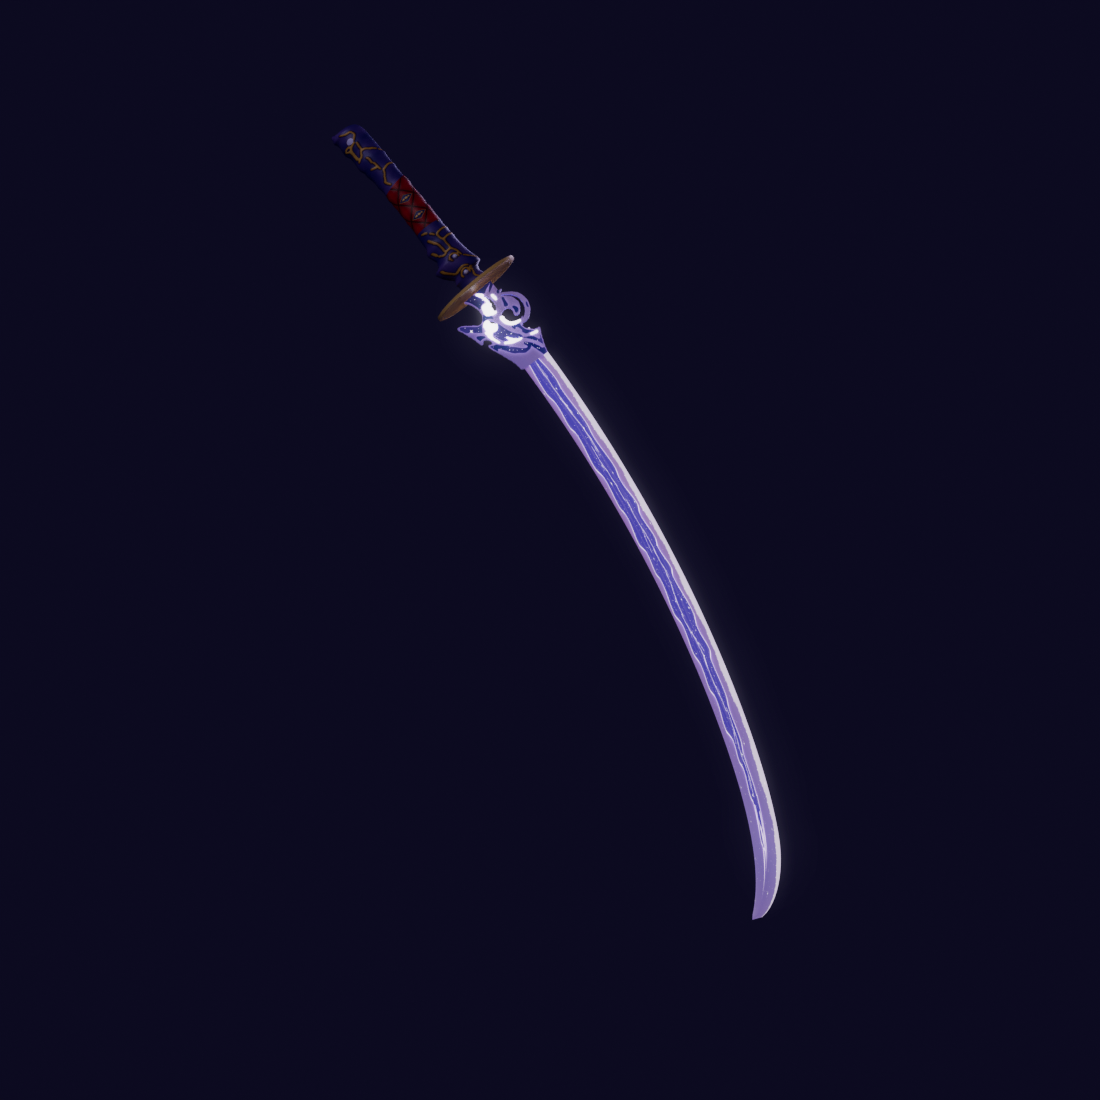
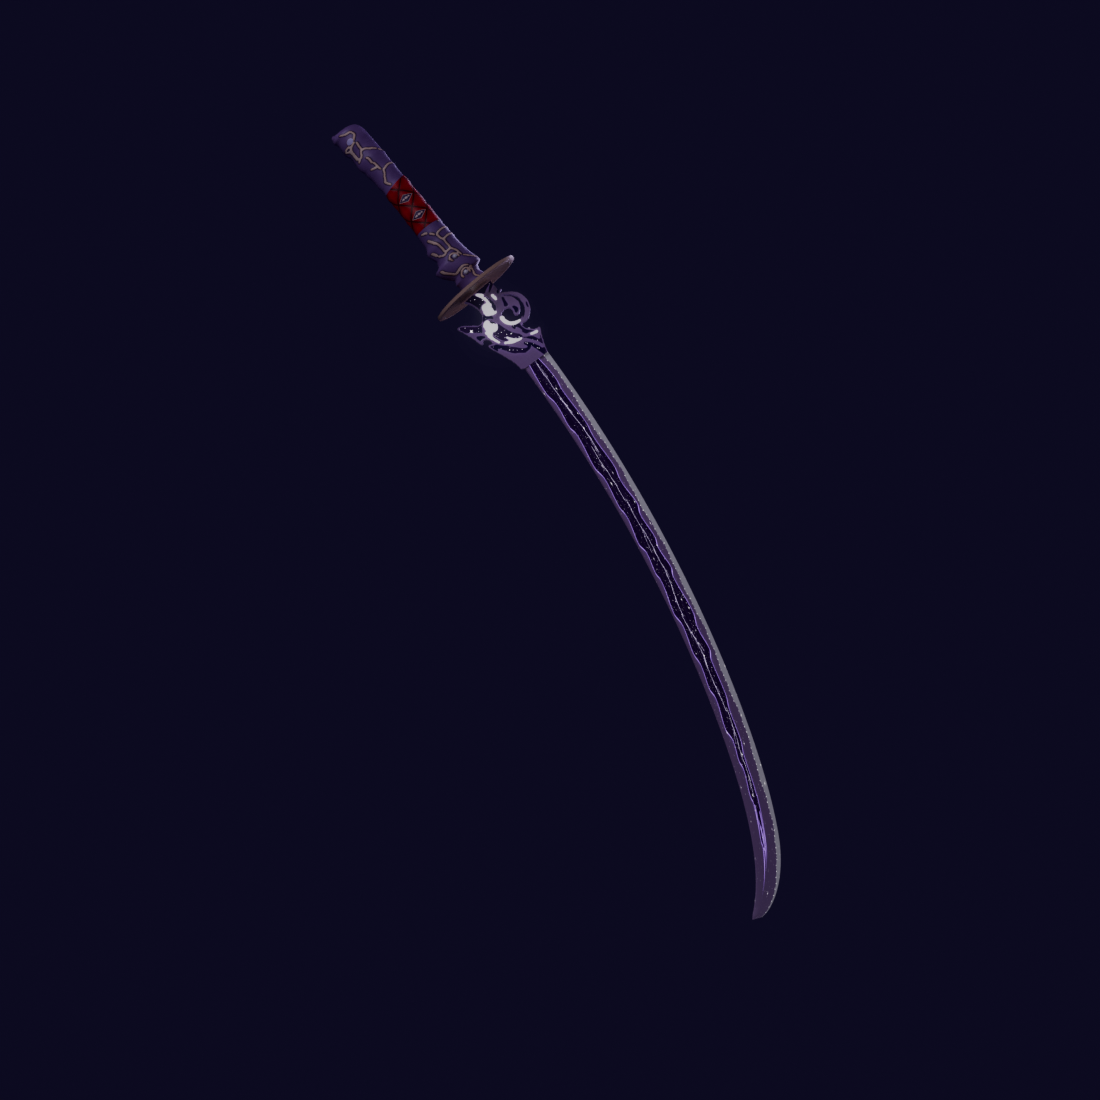
Match the katana's colors to the new photo reference
Measured each part's color from the cosplay-prop photo and set the
texture palette to it: greyish lavender blade with deep purple pattern
and a silver-white edge band, deep purple / lavender guard plate, off-
white swirls, bronze-gold tsuba, greyish red-purple handle, champagne
gold piping and red cord. Emission lowered so the colors no longer wash
out to white. Previews re-rendered; compare_color.png added.

Claude-Session: https://claude.ai/code/session_012gEtFQGHvsjjhHKyZSbX21

Changed region(s): [[0.3709, 0.1855, 0.7109, 0.8345], [0.3091, 0.0927, 0.3709, 0.1855]]

diff --git a/katana/make_katana_texture.py b/katana/make_katana_texture.py
@@ -58,19 +58,20 @@ WIN_HALF_S, WIN_HALF_V = 7.5, 0.105   # 窓の大きさの半分 (長さ方向 p
 INLAY_S, INLAY_V = 333.0, 0.21         # 柄頭の薄紫の象眼
 
 # 色 (参考画像のゲーム画面から)
-EDGE_WHITE = (252, 240, 255)     # 刃先・刃文
+EDGE_WHITE = (226, 222, 230)     # 刃先・刃文 (写真: 銀白)
 BLADE_LAV = (230, 198, 253)      # 刃の地 (白〜ピンク寄りの薄紫)
 BLADE_LAV_HI = (245, 216, 254)
 PANEL = (166, 127, 240)          # 刃の中央の紫の模様
 PANEL_DARK = (124, 86, 226)
 PANEL_LIGHT = (205, 170, 250)
-DEEP = (88, 59, 181)             # トゲ・紋の台座・鎺 (深い紫)
+DEEP = (62, 22, 100)             # 深い紫 (写真: 刃の模様・飾り板の濃い部分)
 DEEP_LIGHT = (157, 117, 245)
-HANDLE_PURPLE = (100, 60, 150)    # 柄の地 (つやのある深い紫)
-WRAP_RED = (206, 34, 46)         # 柄巻きの赤い組紐
-GOLD_PIPE = ((118, 78, 30), (194, 148, 70), (236, 202, 124))   # 柄の金の線 (ふち → 中 → 明るい中央)
+HANDLE_PURPLE = (152, 115, 174)  # 写真: 灰みのある赤紫    # 柄の地 (つやのある深い紫)
+WRAP_RED = (238, 14, 32)         # 組紐の陰影込みで写真の赤 (202, 10, 26) になる明るさ         # 柄巻きの赤い組紐
+GOLD_PIPE = ((176, 140, 116), (242, 212, 188), (252, 234, 218))   # 写真: 淡いシャンパン色   # 柄の金の線 (ふち → 中 → 明るい中央)
 GLOW_WHITE = (255, 250, 255)
-TSUBA_GOLD = [(0.0, (112, 76, 30)), (0.35, (176, 134, 64)), (0.55, (214, 172, 92)), (0.8, (244, 210, 136)), (1.0, (255, 238, 186))]
+SWIRL_WHITE = (234, 230, 236)    # 白い巴 (写真: 少し灰みのある白)
+TSUBA_GOLD = [(0.0, (104, 78, 56)), (0.35, (164, 132, 104)), (0.55, (204, 172, 146)), (0.8, (230, 198, 172)), (1.0, (248, 222, 200))]   # 写真: ブロンズ寄りの金
 
 random.seed(37)
 
@@ -254,10 +255,10 @@ def draw_blade(maps):
         return h - 1 - v * (h - 1)
 
     # 地: 根元から切っ先へ、オーロラのようにほのかに色が移ろう (薄紫 → 桜色 → 青みの薄紫)
-    tint = hgradient((w, h), [(0.0, (236, 204, 255)), (0.40, (247, 208, 252)), (0.72, (232, 210, 255)),
-                              (0.92, (222, 216, 255)), (1.0, (242, 234, 255))])
-    shade = vgradient((w, h), [(0.0, (255, 255, 255)), (0.18, (246, 240, 252)), (0.5, (236, 228, 248)),
-                               (0.86, (250, 246, 255)), (1.0, (255, 255, 255))])
+    tint = hgradient((w, h), [(0.0, (184, 142, 196)), (0.40, (180, 138, 192)), (0.72, (182, 140, 194)),
+                              (0.92, (186, 146, 200)), (1.0, (196, 162, 208))])   # 写真: 灰みのある薄紫
+    shade = vgradient((w, h), [(0.0, (255, 255, 255)), (0.18, (250, 248, 252)), (0.5, (244, 240, 248)),
+                               (0.86, (252, 250, 255)), (1.0, (255, 255, 255))])
     img = ImageChops.multiply(tint, shade)
 
     # 刃文: 刃先に沿って白く柔らかに光る帯 (のたれ + 互の目)
@@ -271,11 +272,11 @@ def draw_blade(maps):
     hamon.append((w, Y(0.0)))
     hm = Image.new("L", (w, h), 0)
     ImageDraw.Draw(hm).polygon(hamon, fill=255)
-    hm_soft = blur(hm, 5)
+    hm_soft = blur(hm, 2)        # 写真: 刃先の銀白ははっきりした帯
     img.paste(EDGE_WHITE, (0, 0), hm_soft)
     nioi = Image.new("L", (w, h), 0)                    # 匂口: ごく淡い薄紫のにじみ
     ImageDraw.Draw(nioi).line(hamon[1:-1], fill=255, width=int(4 * F))
-    img.paste((222, 192, 255), (0, 0), blur(nioi, 3).point(lambda a: a * 0.5))
+    img.paste((204, 186, 216), (0, 0), blur(nioi, 3).point(lambda a: a * 0.5))
     nie = Image.new("L", (w, h), 0)                     # 沸: 刃文の境目のきらめき
     nd = ImageDraw.Draw(nie)
     for (xa, ya) in hamon[1:-1:2]:
@@ -312,11 +313,11 @@ def draw_blade(maps):
 
     # 模様の外側の光のにじみ (ハロー)
     halo = ImageChops.subtract(blur(hard, 22), hard)
-    img.paste((226, 176, 255), (0, 0), halo.point(lambda a: min(255, a * 1.4)))
+    img.paste((150, 108, 178), (0, 0), halo.point(lambda a: min(255, a * 0.6)))
 
     # 模様の中: 中心は深い紫、縁ほど明るく光る宝石のようなグラデーション
     depth = blur(hard, 16).point(lambda a: max(0, a - 128) * 2)
-    core = Image.composite(Image.new("RGB", (w, h), (108, 66, 222)), Image.new("RGB", (w, h), (192, 156, 252)), depth)
+    core = Image.composite(Image.new("RGB", (w, h), (46, 8, 78)), Image.new("RGB", (w, h), (80, 40, 118)), depth)
     # 模様の中をゆっくり流れる光の帯 (シルクのような)
     silk = Image.new("L", (w, h), 0)
     sd = ImageDraw.Draw(silk)
@@ -327,12 +328,12 @@ def draw_blade(maps):
                for x in range(int(start), int(end), int(8 * F))]
         sd.line(pts, fill=255, width=int(rng.uniform(10, 22) * F))
     silk = blur(silk, 8)
-    core.paste((206, 176, 255), (0, 0), silk.point(lambda a: a * 0.35))
+    core.paste((112, 70, 152), (0, 0), silk.point(lambda a: a * 0.35))
     img.paste(core, (0, 0), mask)
     # 縁の内側の光るライン
     rim = ImageChops.subtract(hard, blur(hard, 3).point(lambda a: 255 if a > 240 else 0))
     rim = blur(rim, 0.8)
-    img.paste((238, 214, 255), (0, 0), rim)
+    img.paste((124, 84, 160), (0, 0), rim)
 
     # 稲妻: 模様の中を走る、枝分かれする細い光の筋
     bolt = Image.new("L", (w, h), 0)
@@ -345,29 +346,29 @@ def draw_blade(maps):
         x += L * rng.uniform(0.6, 1.0)
     bolt = ImageChops.multiply(bolt, hard)
     bolt_glow = blur(bolt, 5)
-    img.paste((214, 180, 255), (0, 0), bolt_glow.point(lambda a: min(255, a * 2)))
-    img.paste((250, 244, 255), (0, 0), blur(bolt, 0.6))
+    img.paste((130, 92, 176), (0, 0), bolt_glow.point(lambda a: min(255, a * 1.2)))
+    img.paste((200, 176, 230), (0, 0), blur(bolt, 0.6).point(lambda a: a * 0.6))
 
     # 星屑: 刀身全体に薄く、模様の中は多め
     dust_all = stardust((w, h), rng, 900, 30)
     dust_in = stardust((w, h), rng, 1400, 70, area=hard)
     dust = ImageChops.lighter(dust_all.point(lambda a: a * 0.6), dust_in)
-    img.paste((255, 250, 255), (0, 0), ImageChops.lighter(blur(dust, 0.5), blur(dust, 3).point(lambda a: a * 0.5)))
+    img.paste((236, 226, 244), (0, 0), ImageChops.lighter(blur(dust, 0.5), blur(dust, 3).point(lambda a: a * 0.3)).point(lambda a: a * 0.5))
 
     # 根元: 紋のまわりは深い紫のグラデーション
     base = Image.new("L", (w, h), 0)
     ImageDraw.Draw(base).rectangle([0, Y(0.95), w * 0.07, Y(0.05)], fill=255)
     img.paste(DEEP, (0, 0), blur(base, 24).point(lambda a: a * 0.6))
-    img.paste(GLOW_WHITE, (0, 0), blur(nie, 0.6).point(lambda a: a * 0.6))
+    img.paste(GLOW_WHITE, (0, 0), blur(nie, 0.6).point(lambda a: a * 0.4))
 
     # 発光: 地はほのかに、模様の縁・稲妻・星屑・刃文は強く
     # 地はピンク寄りの薄紫にほのかに光る (白っぽく濁らないよう色を乗せる)
-    emis = scale_rgb(ImageChops.multiply(img, Image.new("RGB", (w, h), (215, 165, 255))), 0.40)
-    emis.paste(scale_rgb(core, 0.45), (0, 0), mask)
-    emis.paste((150, 96, 230), (0, 0), halo.point(lambda a: a * 0.7))
-    emis.paste((236, 210, 255), (0, 0), rim)
-    emis.paste(scale_rgb(Image.new("RGB", (w, h), EDGE_WHITE), 0.8), (0, 0), hm_soft.point(lambda a: a * 0.6))
-    emis.paste((200, 160, 255), (0, 0), bolt_glow.point(lambda a: min(255, a * 2)))
+    emis = scale_rgb(img, 0.14)
+    emis.paste(scale_rgb(core, 0.25), (0, 0), mask)
+    emis.paste((80, 48, 130), (0, 0), halo.point(lambda a: a * 0.5))
+    emis.paste((150, 110, 200), (0, 0), rim)
+    emis.paste(scale_rgb(Image.new("RGB", (w, h), EDGE_WHITE), 0.35), (0, 0), hm_soft.point(lambda a: a * 0.6))
+    emis.paste((150, 110, 220), (0, 0), bolt_glow.point(lambda a: min(255, a * 1.2)))
     emis.paste(GLOW_WHITE, (0, 0), blur(bolt, 0.6))
     emis.paste(GLOW_WHITE, (0, 0), ImageChops.lighter(blur(dust, 0.5), blur(nie, 0.6)))
     maps.put(UV_BLADE, img, emis)
@@ -402,7 +403,7 @@ def draw_handle(maps):
         return (1 - v) * h
 
     # 紫の地: つやのある深い紫 (ごく淡いマーブル)
-    img = ImageChops.multiply(marble((w, h), (150, 120, 220), (255, 255, 255), scale=90), Image.new("RGB", (w, h), HANDLE_PURPLE))
+    img = ImageChops.multiply(marble((w, h), (226, 218, 232), (255, 255, 255), scale=90), Image.new("RGB", (w, h), HANDLE_PURPLE))
     img = seamless_v(Image.blend(img, blur(img, 10), 0.6))
 
     # ---- 赤い柄巻き: 斜めに交差する組紐 (菱形の目)。表と裏の中央に、紫がのぞく菱形の窓が 2 つずつ
@@ -433,7 +434,7 @@ def draw_handle(maps):
     rh.paste(rh_part, (xa, 0))
     del rimg, shade, bulge, groove, thread, edge
     # 窓の中: 深い紫 + 金のふち + 金の飾り (縦に並ぶ 3 つの玉)
-    win_img = Image.new("RGB", (w, h), (52, 30, 118))
+    win_img = Image.new("RGB", (w, h), (78, 40, 104))
     wf = Image.new("L", (w, h), 0)
     wd = ImageDraw.Draw(wf)
     orn = Image.new("L", (w, h), 0)
@@ -469,7 +470,7 @@ def draw_handle(maps):
     gold_img = Image.merge("RGB", [core.point([round(lerp_color(list(zip((0.0, 0.5, 1.0), GOLD_PIPE)), v / 255)[k])
                                                for v in range(256)]) for k in range(3)])
     shadow = ImageChops.subtract(blur(gold, 6), gold)              # 線のまわりの影
-    img.paste((40, 20, 70), (0, 0), shadow.point(lambda a: min(255, a * 1.4)))
+    img.paste((60, 28, 70), (0, 0), shadow.point(lambda a: min(255, a * 1.2)))
     outline = ImageChops.subtract(blur(gold, 2.5).point(lambda a: 255 if a > 20 else 0), gold)   # 線のふちの細い濃い縁
     img.paste((46, 26, 52), (0, 0), blur(outline, 0.8).point(lambda a: a * 0.85))
 
@@ -512,9 +513,9 @@ def draw_guard(maps):
     w = round(S * (GUARD_A_MAX - GUARD_A_MIN) / span)
     h = round(S * (GUARD_E_MAX - GUARD_E_MIN) / span)
     rng = random.Random(53)
-    light_col = (184, 142, 244)
+    light_col = (184, 144, 200)          # 写真: 灰みのある薄紫
     img = Image.new("RGB", (S, S), light_col)             # 余白 (側面) は薄紫
-    emis = scale_rgb(img, 0.32)
+    emis = scale_rgb(img, 0.14)
     if os.path.isfile(GUARD_TONE):
         tone = Image.open(GUARD_TONE).convert("L").resize((w, h), Image.NEAREST)
         dark = tone.point(lambda v: 255 if 120 <= v < 200 else 0)
@@ -522,21 +523,21 @@ def draw_guard(maps):
         dark = blur(dark, 0.8)
         # 薄い紫: 桜色寄りのグラデーション / 濃い紫: 星雲のような深い紫
         # 薄い紫は白い巴より一段濃く (巴が浮き立つように)
-        lt = vgradient((w, h), [(0.0, (198, 156, 248)), (1.0, (172, 128, 240))])
+        lt = vgradient((w, h), [(0.0, (190, 150, 206)), (1.0, (176, 136, 194))])
         dk = ImageChops.multiply(marble((w, h), (120, 90, 210), (255, 255, 255), scale=40),
-                                 Image.new("RGB", (w, h), (98, 64, 196)))
+                                 Image.new("RGB", (w, h), (60, 20, 96)))
         dk = Image.blend(dk, blur(dk, 4), 0.5)
         part = lt.copy()
         halo = ImageChops.subtract(blur(dark, 10), dark)     # 濃い紫のまわりの光のにじみ
-        part.paste((206, 168, 252), (0, 0), halo.point(lambda a: a * 0.6))
+        part.paste((160, 118, 182), (0, 0), halo.point(lambda a: a * 0.4))
         part.paste(dk, (0, 0), dark)
         dust = stardust((w, h), rng, 260, 10, area=dark)
-        part.paste((250, 240, 255), (0, 0), blur(dust, 0.5))
+        part.paste((220, 206, 232), (0, 0), blur(dust, 0.5).point(lambda a: a * 0.5))
         # 上下反転なし: tone の上 = e の大きい側 (刃側) = UV の上
         img.paste(part, (0, S - h))
-        e_part = scale_rgb(part, 0.32)
-        e_part.paste(scale_rgb(dk, 0.30), (0, 0), dark)
-        e_part.paste((150, 100, 230), (0, 0), halo.point(lambda a: a * 0.6))
+        e_part = scale_rgb(part, 0.14)
+        e_part.paste(scale_rgb(dk, 0.20), (0, 0), dark)
+        e_part.paste((90, 56, 140), (0, 0), halo.point(lambda a: a * 0.4))
         e_part.paste(GLOW_WHITE, (0, 0), blur(dust, 0.5))
         emis.paste(e_part, (0, S - h))
         full_dark = Image.new("L", (S, S), 0)
@@ -550,8 +551,8 @@ def draw_guard(maps):
 def draw_white(maps):
     """白く光る巴。"""
     x0, y0, x1, y1 = uv_box(UV_WHITE)
-    img = Image.new("RGB", (x1 - x0, y1 - y0), GLOW_WHITE)
-    maps.put(UV_WHITE, img, img)
+    img = Image.new("RGB", (x1 - x0, y1 - y0), SWIRL_WHITE)
+    maps.put(UV_WHITE, img, scale_rgb(img, 0.55))
 
 
 def draw_tsuba(maps):
@@ -582,7 +583,7 @@ def draw_stud(maps):
     w, h = x1 - x0, y1 - y0
     yy, xx = np.mgrid[0:h, 0:w].astype(np.float32)
     r = np.clip(np.hypot((xx + 0.5) / w * 2 - 1, (yy + 0.5) / h * 2 - 1), 0, 1)
-    c0, c1 = np.array((246, 240, 255), np.float32), np.array((176, 156, 226), np.float32)
+    c0, c1 = np.array((252, 250, 252), np.float32), np.array((196, 190, 206), np.float32)   # 写真: 白い鋲
     img = c0 + (c1 - c0) * (r[..., None] ** 1.6)
     maps.put(UV_STUD, Image.fromarray(img.astype(np.uint8), "RGB"), Image.new("RGB", (w, h), (0, 0, 0)))
 

diff --git a/katana/README.md b/katana/README.md
@@ -21,6 +21,10 @@
 
 ![compare_hilt](export/compare_hilt.png)
 
+色の比較 (上: 参考画像の写真 / 下: モデル。光らせずに白い背景で):
+
+![compare_color](export/compare_color.png)
+
 明るい場所での見え方 (ブルームなし):
 
 ![day](export/preview_day.png)
@@ -44,11 +48,11 @@
 | ポリゴン | 5,140 三角形 |
 | マテリアル | 2 個: `Katana_Blade` (光る部分: 刃・付け根の飾り板・白い巴) / `Katana_Hilt` (光らない部分: 鍔・柄・鋲) |
 | テクスチャ | 3 枚 (どれも 8192×8192、2 つのマテリアルで共有、FBX には埋め込まず隣に置く): `Katana_Atlas.png` (色) / `Katana_Emission.png` (発光) / `Katana_Normal.png` (ノーマルマップ) |
-| 色 | 参考画像 (ゲーム画面) の色をもとにした幻想的な配色。刀身の地は根元→切っ先へオーロラのように移ろう薄紫・桜色・青みの薄紫、模様は夜空のような深い紫 |
-| 刀身 | なめらかに揺らめく炎の形の模様 (中心は深い紫、縁ほど明るい宝石のようなグラデーション、光る縁のライン、外側に光のにじみ)、模様の中を流れるシルクのような光の帯、枝分かれする細い稲妻、星屑と星のきらめき、白く柔らかく光る刃文と沸 |
+| 色 | 参考画像 (コスプレ用の刀の写真) の色を部位ごとに測って合わせた配色: 刀身の地は灰みのある薄紫、模様と飾り板の濃い部分は深い紫、刃先は銀白、巴は少し灰みのある白、鍔はブロンズ寄りの金、柄は灰みのある赤紫、金の線は淡いシャンパン色、紐は赤 |
+| 刀身 | なめらかに揺らめく炎の形の模様 (深い紫、縁は少し明るい紫)、模様の中のほのかな光の帯と細い稲妻、控えめな星屑、刃先に沿ったはっきりした銀白の帯 (刃文) |
 | 柄の質感 | 金の線は中央が明るく縁が濃い丸い線 (まわりに細い影)、赤い組紐は絹糸の細かい筋と目ごとのふくらみ、鋲は真珠のような薄紫 |
 | 鍔の質感 | 同心円の細かい磨き目とごく細かい槌目、外側の耳は明るく磨いた金、耳の内側に細い溝 |
-| 発光 | 地はピンク寄りの薄紫にほのかに、模様の縁・稲妻・星屑・刃文・沸は強く光る。白い巴も強く光る。鍔と柄は光らない |
+| 発光 | 写真の色が白っぽく飛ばないよう控えめ: 地と模様はごくほのかに、模様の縁・稲妻・星屑はやや強く、白い巴はほどほどに光る。鍔と柄は光らない |
 | 凹凸 | ノーマルマップ: 柄の金の線の盛り上がり、組紐のふくらみと境目の溝、菱形の窓のくぼみ、刀身の模様のなめらかな彫り込み、飾り板の濃い紫の彫り込み、鍔の槌目と溝 |
 | 動作確認 | Blender 5.1.2 |
 
@@ -81,7 +85,7 @@
   - メインカラー: `Katana_Atlas.png`
   - ノーマルマップ: 「ノーマルマップ」をオンにして `Katana_Normal.png`
   - `Katana_Blade` だけ: 「発光」をオンにして、テクスチャに `Katana_Emission.png`、色は白 (明るさはお好みで)
-- 幻想的に見せるコツ: ブルーム (光のにじみ) のあるワールドでいちばん映えます。発光の明るさを 1.5〜2 くらいに上げると、稲妻や星屑がにじんで光ります。
+- 写真の色のまま見せたいときは発光の明るさを 1 以下に、幻想的に光らせたいときは 1.5〜2 くらいに上げてください (ブルームのあるワールドでは稲妻や星屑がにじんで光ります)。
 - テクスチャはどれも 8192×8192 です。Unity のテクスチャ設定の **Max Size を 8192** にすると最大の解像度で使えます。
   ただし VRChat ではテクスチャのメモリが大きくなり、パフォーマンスランクが下がります (8192 は 1 枚で約 85MB)。
   重いときは Max Size を下げてください (作り直しは不要です)。目安: 色 4096、ノーマル 4096、発光 2048。
